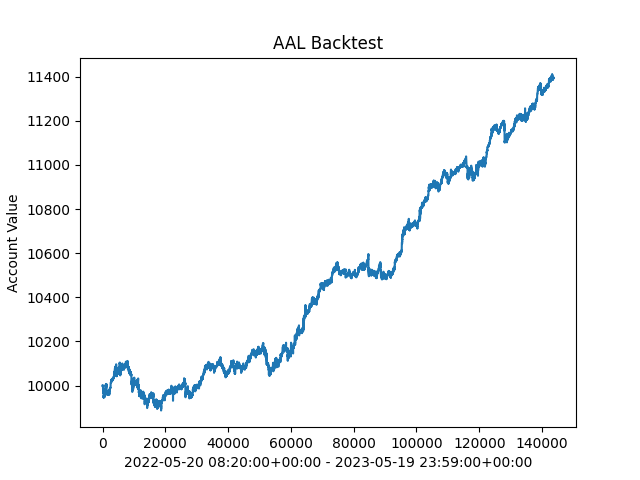
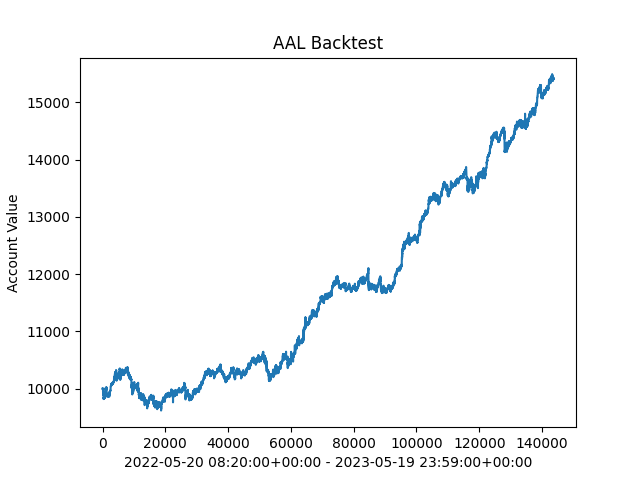
Updates

diff --git a/BackTesting/back-test.py b/BackTesting/back-test.py
@@ -8,56 +8,78 @@ import matplotlib.pyplot as plt
 
 import os 
 
-# files = os.listdir('HistoricalData')
-# files = [file.split('.')[0] for file in files]
+files = os.listdir('HistoricalData')
+files = [file.split('.')[0] for file in files]
 
 results = {}
 
-files = ['F','AAPL', 'AAL']
+# files = ['F','AAPL', 'AAL']
 
+#Iterate through all files in HistoricalData folder
 for file in files:
 
+    #Read in CSV file to pandas dataframe
     df = pd.read_csv("HistoricalData/{}.csv".format(file))
 
+    #Count how many rows are in the dataframe
     count = 0
+    
+    #Create indicators
     BOL_ONE = BB(20, 2)
     BOL_TWO = BB(20, 3)
     ADX_ONE = ADX(14,20)
     RSI_ONE = RSI(14)
+    
+    #Set initial cash value
     cash = 10000
 
+    #Set initial account value
     account_value = 0
 
+    #Create list to store account value history
     account_value_history = []
 
+    #Create list to store iterations
     iterations = []
 
+    #Create dictionary to store current position
     CURRENT_POSITION = {'shares': 0, 'price': 0}
 
+    #Set start and end dates
     startDate = df['timestamp'][0]
     endDate = df['timestamp'][len(df)-1]
 
+    #Iterate through each row in the dataframe
     for line in df.iterrows():
         
+        #Create dictionary from row
         ohlc = {'open': line[1]['open'], 'high': line[1]['high'], 'low': line[1]['low'], 'close': line[1]['close'], 'volume': line[1]['volume'], 'time': line[1]['timestamp']}
+        
+        # Add input values to indicators
         BOL_ONE.add_input_value(ohlc['close'])
         BOL_TWO.add_input_value(ohlc['close'])
         dict = ohlcv_from_dict(ohlc)
         ADX_ONE.add_input_value(dict)
         RSI_ONE.add_input_value(ohlc['close'])
+        
+        # Check if indicators have output values
         if BOL_ONE.has_output_value() and BOL_TWO.has_output_value() and RSI_ONE.has_output_value() and count > 25:
+            #Check for buy and sell signals
             if ohlc['close'] < BOL_ONE[-1].lb and ohlc['close'] > BOL_TWO[-1].lb: # and (ADX_ONE[-1].adx) > 15 and RSI_ONE[-1] < 90 and ADX_ONE[-1].plus_di > ADX_ONE[-1].minus_di:
+                # Check if we already have a position and continue if we do
                 if CURRENT_POSITION['shares'] > 0:
                     continue
                 else:
                     # print("Cash: {}".format(round(cash,2)))
                     # print("BUY, {} shares at ${} {}".format(int((cash/10)/ohlc['close']), ohlc['close'], ohlc['time']))
                     # print("BOL_ONE: {}, BOL_TWO: {}, ADX: {}, RSI: {}".format(round(BOL_ONE[-1].lb,2), round(BOL_TWO[-1].lb,2), round(ADX[-1].adx,2), round(RSI[-1],2)))
-                    shares = int((cash/10)/ohlc['close'])
+                    shares = int((cash/3)/ohlc['close'])
                     cash -= ohlc['close']*shares
                     CURRENT_POSITION['shares'] = shares
                     CURRENT_POSITION['price'] = ohlc['close']
-            elif ohlc['close'] > BOL_ONE[-1].ub and ohlc['close'] < BOL_TWO[-1].ub:
+                    
+            # Check for sell signal
+            if ohlc['close'] > BOL_ONE[-1].ub and ohlc['close'] < BOL_TWO[-1].ub:
                 if CURRENT_POSITION['shares'] > 0:
                     # print("SELL, {} shares at ${} {}".format(CURRENT_POSITION['shares'], ohlc['close'], ohlc['time']))
                     # print("BOL_ONE: {}, BOL_TWO: {}, ADX: {}, RSI: {}".format(round(BOL_ONE[-1].ub,2), round(BOL_TWO[-1].ub,2), round(ADX[-1].adx,2), round(RSI[-1],2)))
@@ -69,26 +91,31 @@ for file in files:
             #     print("HOLD, {} shares at ${} {}".format(CURRENT_POSITION['shares'], ohlc['close'], ohlc['time']))
             # else:
             #     print("No Position Cash: {}".format(round(cash,2)))
-                
+            
+        # Calculate account value    
         account_value = cash + CURRENT_POSITION['shares']*ohlc['close']
         
+        # Add account value to account value history
         account_value_history.append(account_value)
         
         # print("Account Value: {}".format(round(account_value,2)))
         
+        # Add iteration to iterations list
         iterations.append(count)
         count += 1
         
     # print(count)
         
+    # Check if we have a position at the end of the backtest
     if CURRENT_POSITION['shares'] > 0:
         cash += CURRENT_POSITION['shares']*CURRENT_POSITION['price']
         account_value = cash
         # account_value_history.append(account_value)
         
+    # Calculate percent change
     percent_change = ((account_value - 10000)/10000)*100
     
-    results[file] = percent_change
+    results[file] = round(percent_change,3)
         
     plt.plot(iterations, account_value_history)
     plt.xlabel('{} - {}'.format(startDate, endDate))
@@ -97,7 +124,7 @@ for file in files:
     plt.savefig('BackTestResults/{}.png'.format(file))
     plt.clf()
         
-    print("Final Cash: {} - {}".format(round(cash,2), file))
+    print("Final Cash: ${} - {}".format(round(cash,2), file))
     
 # res = nlargest(20, results, key=results.get)
-# print(res)
+print(results)
